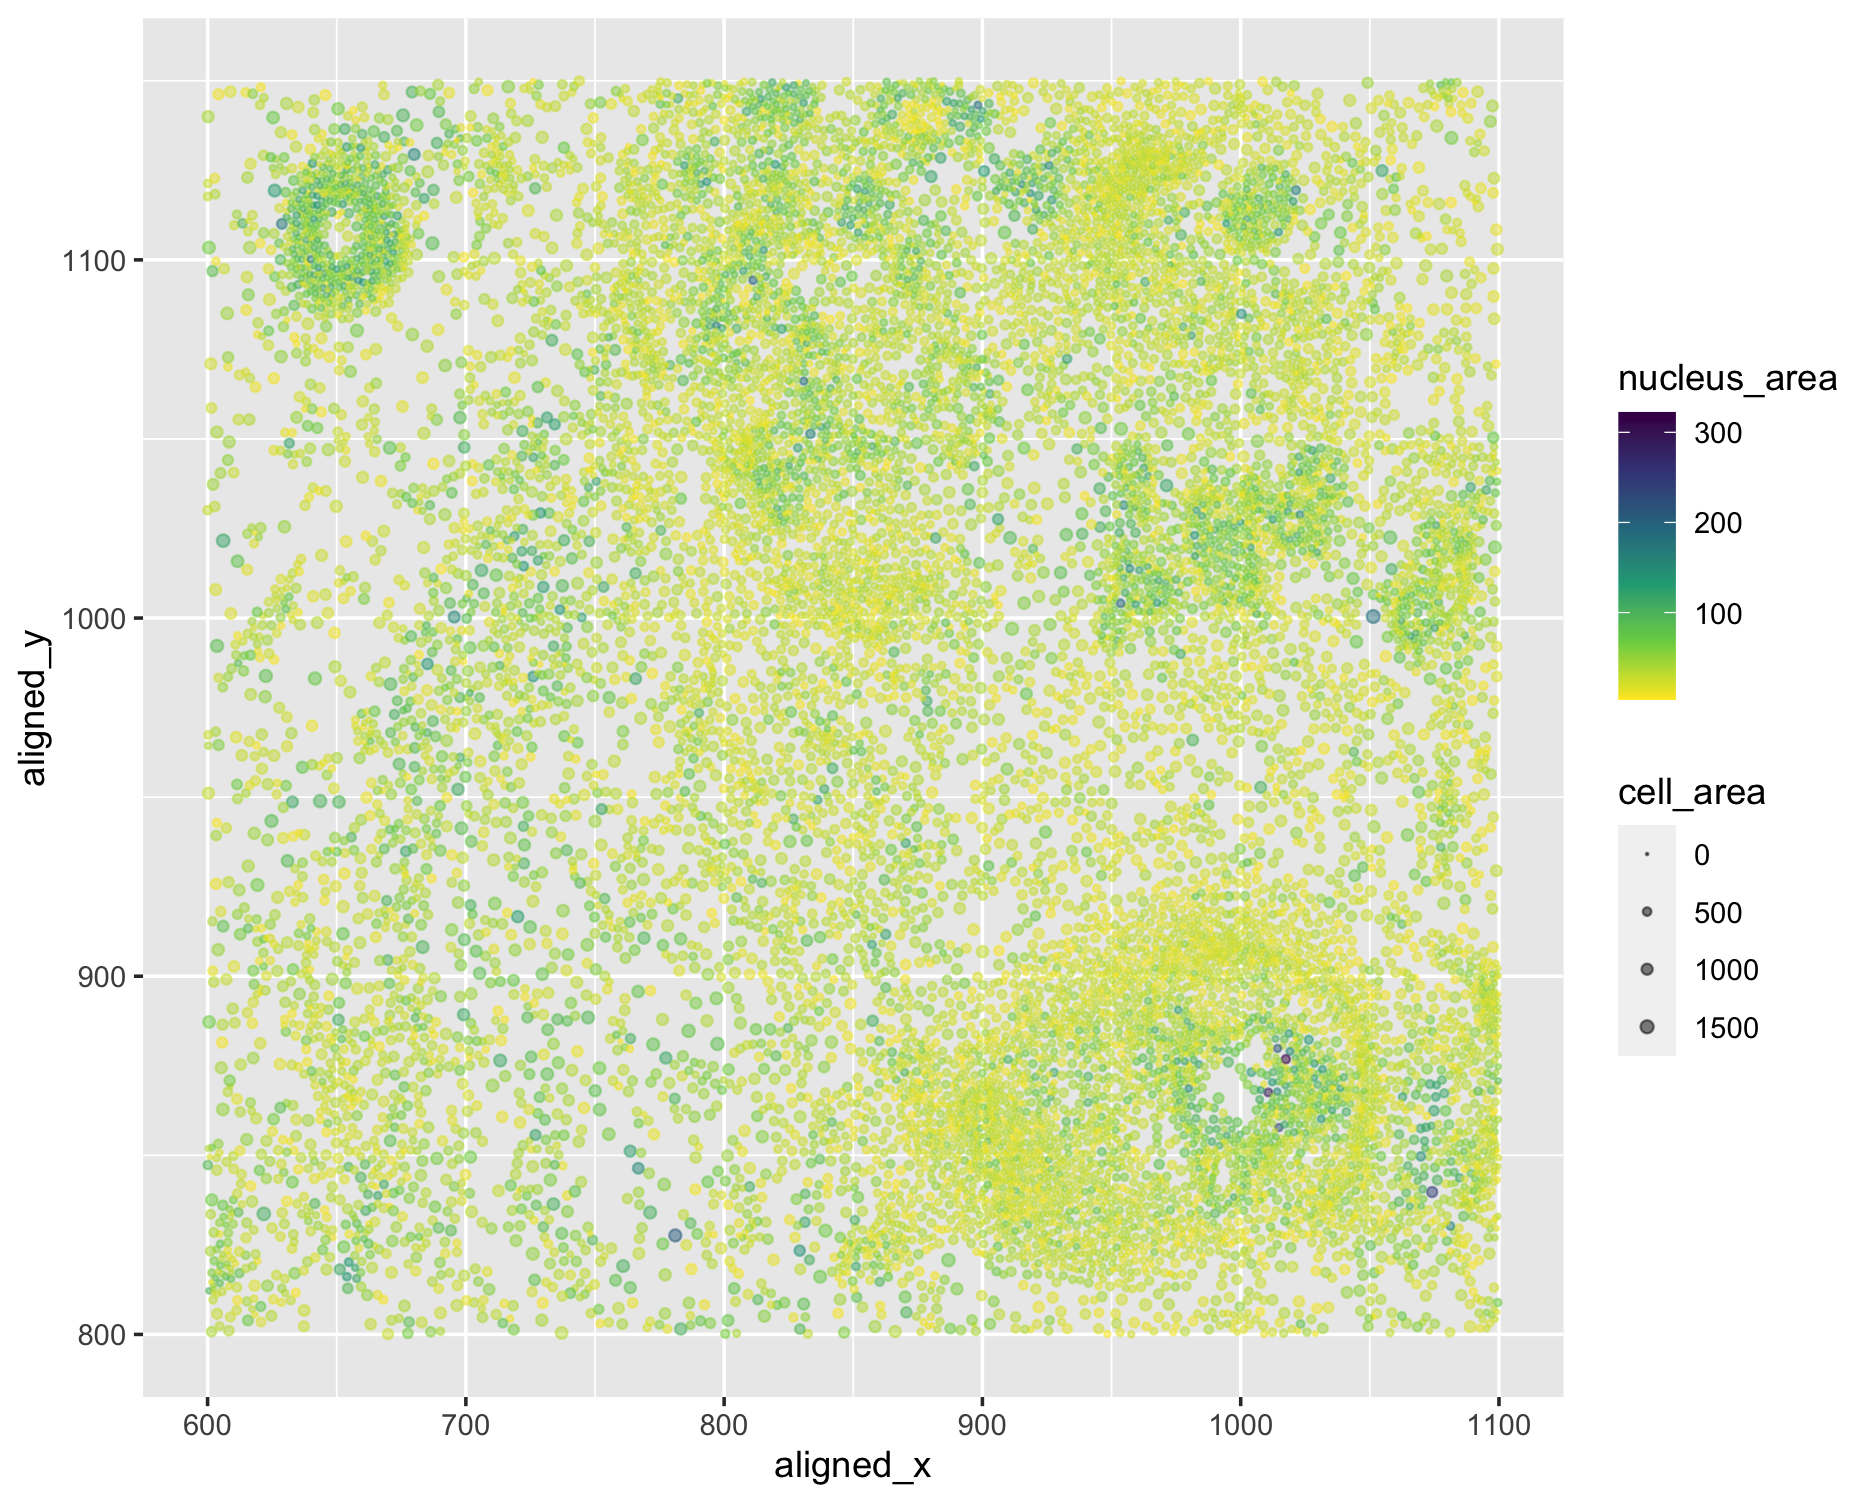
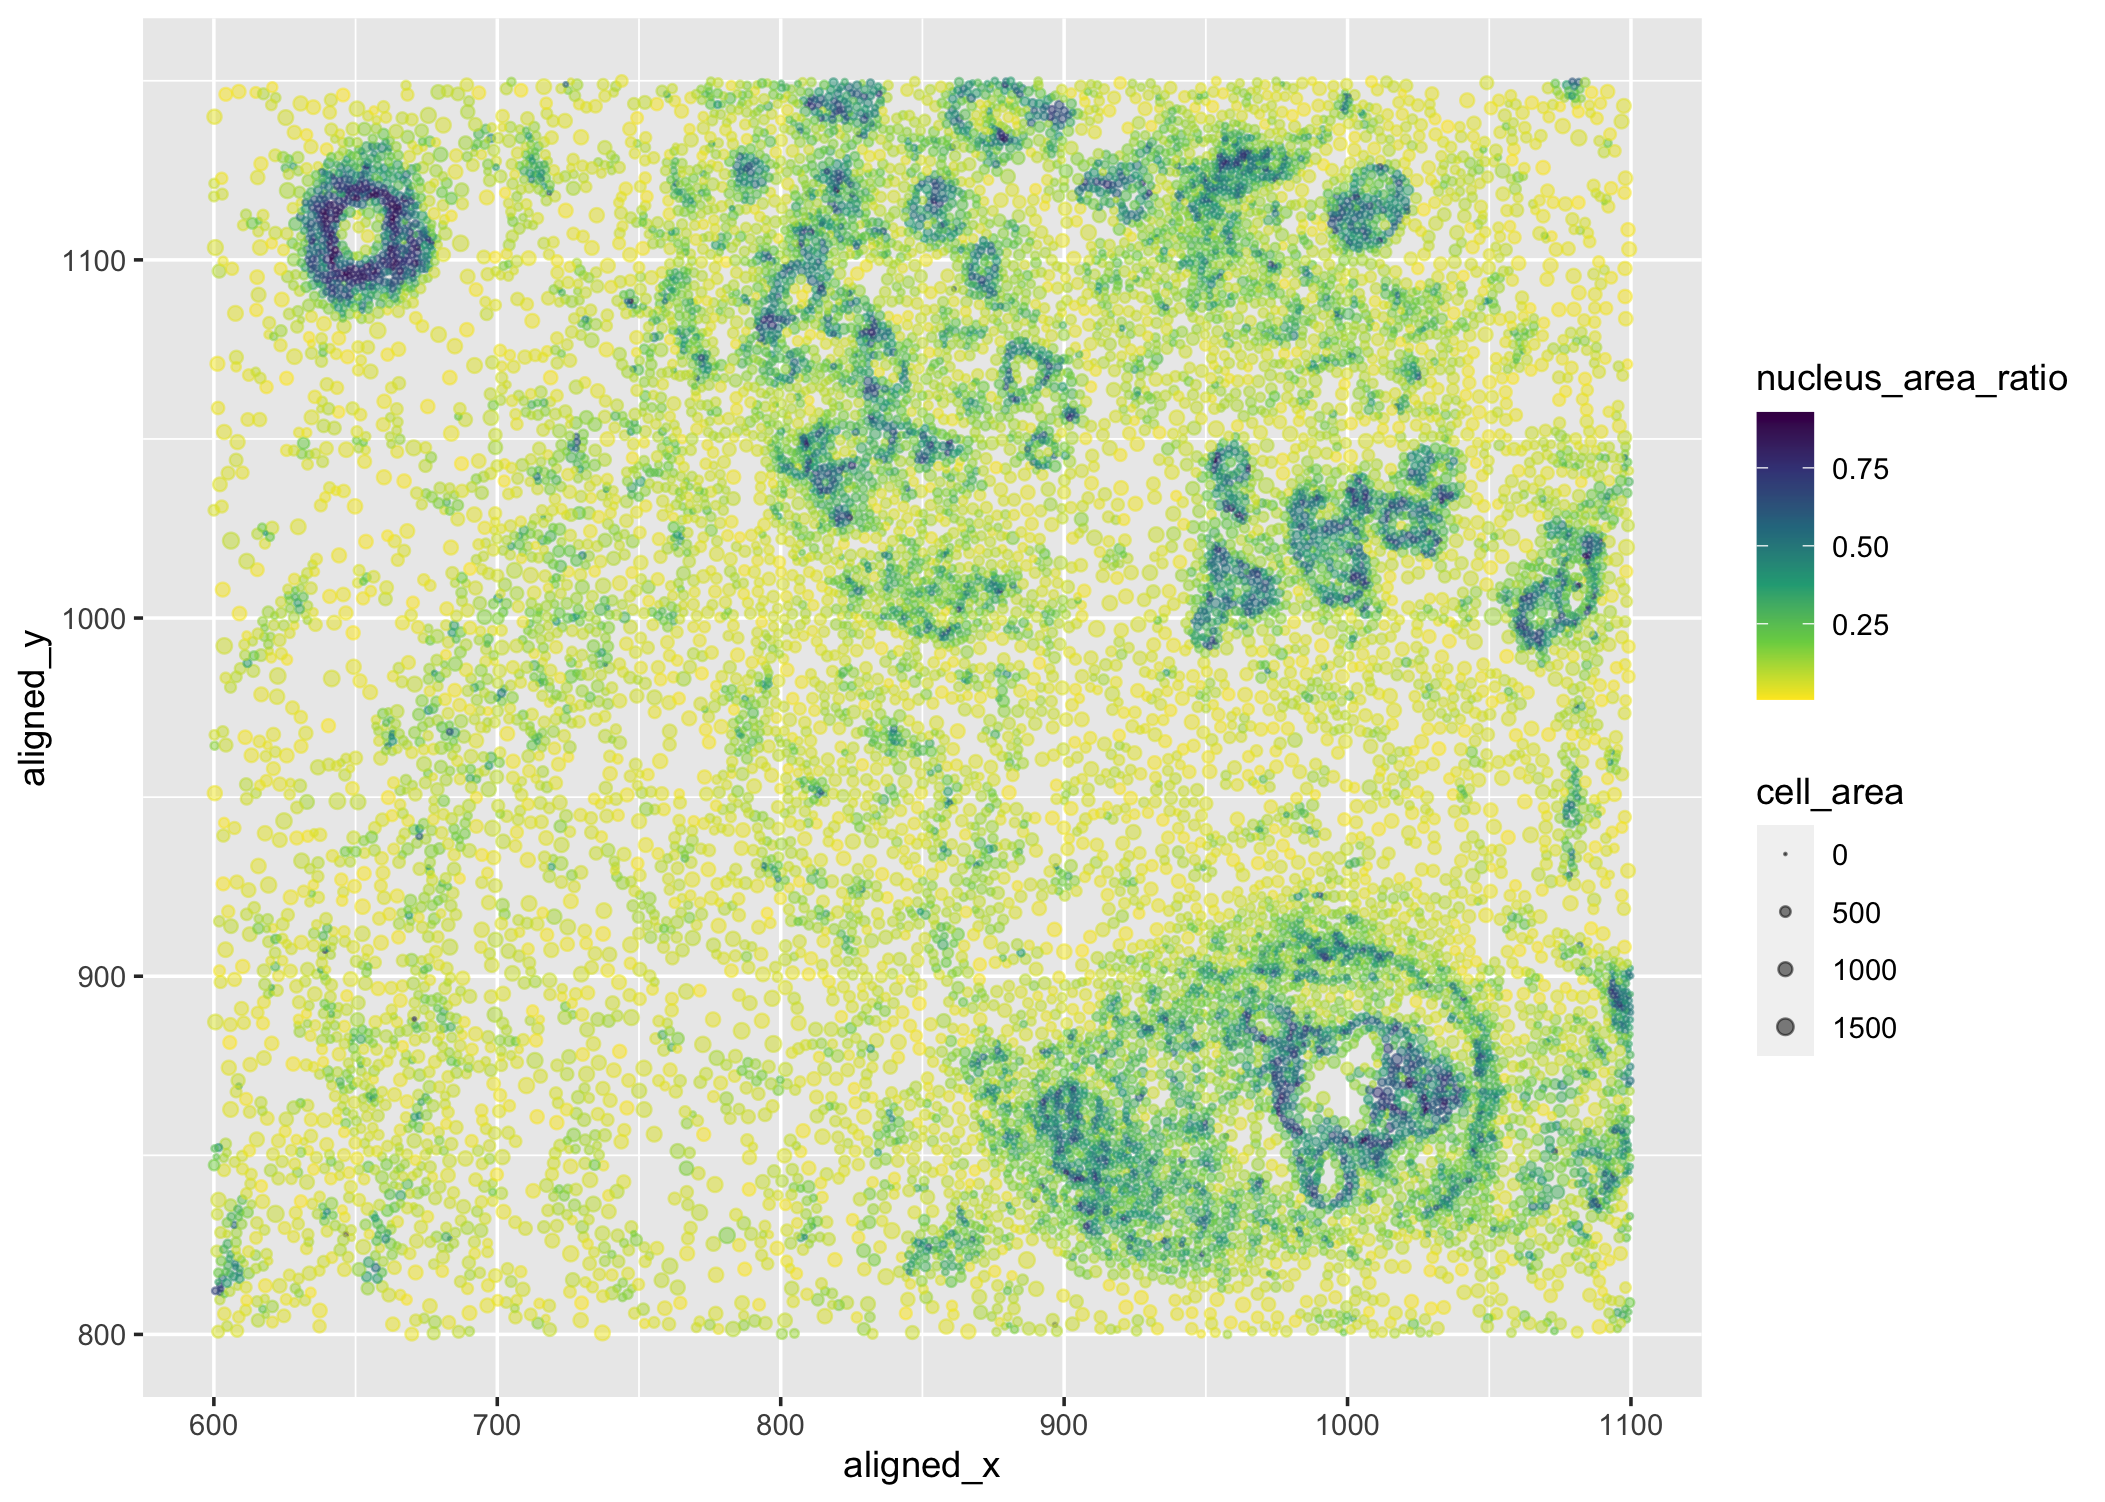
update figures and md file

diff --git a/_posts/2024-01-29-yyan67.md b/_posts/2024-01-29-yyan67.md
@@ -9,24 +9,21 @@ featured: false
 ---
 
 ## What data types are you visualizing?
-I am visualizing quantitative data of the expression count of the ERBB2 gene for each cell, quantitative data of the area for each cell, and spatial data regarding the x,y centroid positions for each cell.
+I am visualizing quantitative data of the ratio of nucleus area to cell area for each cell, quantitative data of the area for each cell, and spatial data regarding the x,y centroid positions for each cell.
 
 ## What data encodings are you using to visualize these data types?
-I am using the geometric primitive of points to represent each cell. To encode expression count of the ERBB2 gene, I am using the visual channel of position along the y axis. To encode the area for each cell, I am using the visual channel of size. To encode the spatial x position, I am using the visual channel of position along the x axis. To encode the spatial y position, I am using the visual channel of saturation going from an unsaturated lightgrey to a saturated red. 
+I am using the geometric primitive of points to represent each cell. To encode the ratio of nucleus area to cell area, I am using the visual channel of color hue. To encode the area for each cell, I am using the visual channel of size. To encode the spatial x,y position, I am using the visual channel of position along the x,y axis.
 
 ## What type of data visualization is this? What about the data are you trying to make salient through this data visualization? What Gestalt principles have you applied towards achieving this goal if any?
-My explanatory data visualization seeks to make more salient the relationship between ERBB2 expression and the cell area. 
+My explanatory data visualization seeks to make more salient the relationship between spatial position and the ratio of nucleus area to cell area. for Gestalt principles, I have used similarity by representing cells with similar ratio of nucleus area to cell area. 
 
 ## Please share the code you used to reproduce this data visualization.
 ```{r}
-file <- '~/Desktop/genomic-data-visualization-2023/data/charmander.csv.gz'
-data <- read.csv(file, row.names=1)
-
+data <- read.csv('./Documents/JHU/genomic data viz/pikachu.csv.gz', row.names = 1)
 library(ggplot2)
-ggplot(data, aes(x=x_centroid, y=ERBB2, col=y_centroid, size=area)) + 
-  scale_colour_gradient(low = 'lightgrey', high='red') + 
-  geom_point() +
-  theme_minimal() 
+data$nucleus_area_ratio = data$nucleus_area/data$cell_area
+ggplot(data) + 
+  geom_point(aes(x = aligned_x, y = aligned_y, color=nucleus_area_ratio, size=cell_area), alpha=0.5) + 
+  scale_size(range=c(0,2), limits = c(0,1500)) + 
+  scale_color_continuous(type="viridis", direction=-1) 
 ```
-
-(do you think my data visualization is effective? why or why not?)
